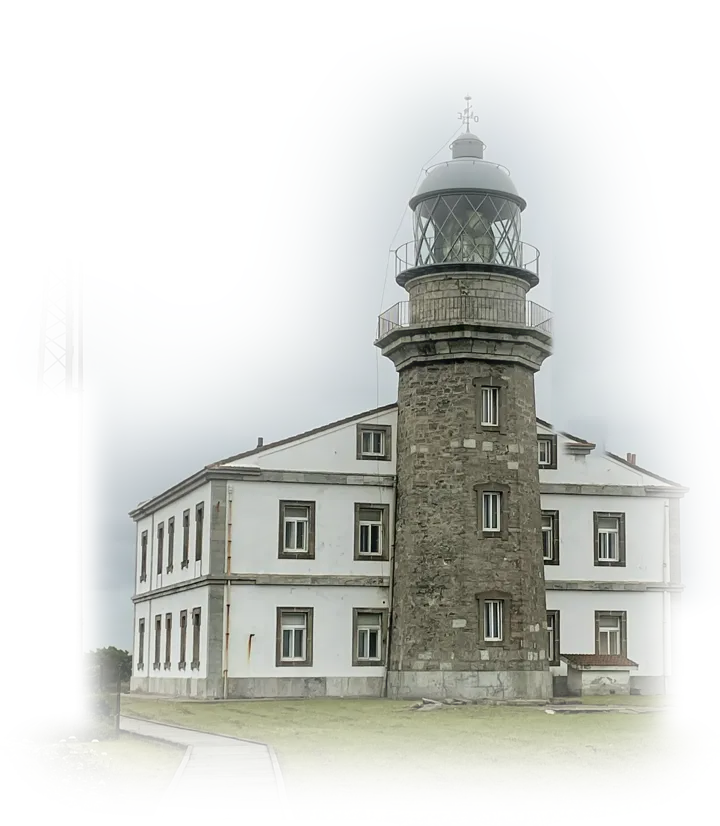
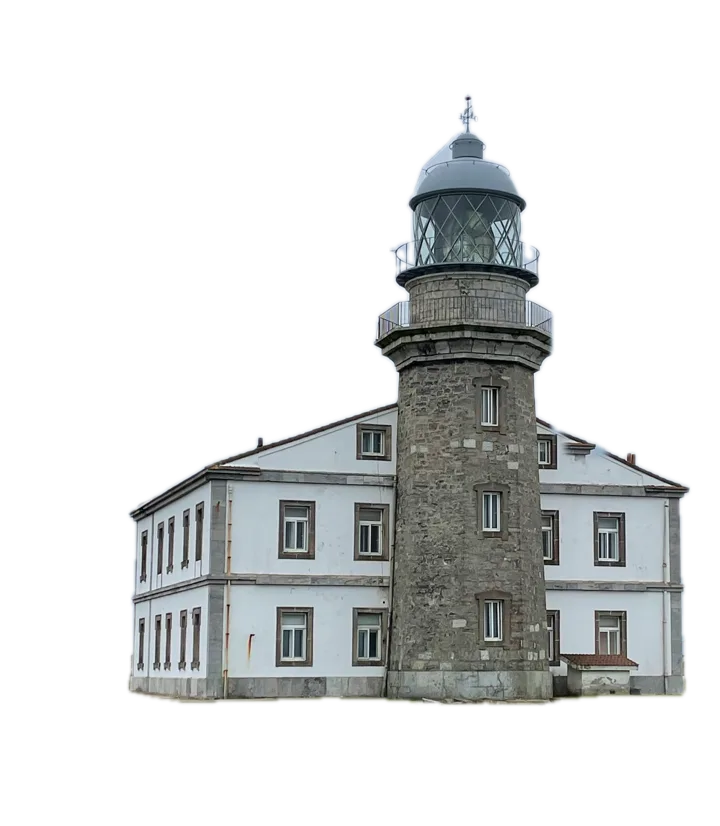
feat(cdn): the band goes dark, the cutout gets tight, the quotation becomes an epigraph
Four rounds of static prototypes, each measured for contrast pixel by pixel
(founder, 2026-10-01): the light band lost to a dark one, and "negro puro" to
a warm grey that drifts toward the photograph's own tone from the column's
right edge on. Two new tokens carry that: --color-ground-dark (#232724, the
grey the muted-dark ink was measured against) and --color-ground-haze
(#A1ABAA, what the cutout's edge pixels average to).

What the rounds found and fixed:

- The soft-edged cutout kept real sky inside its mask; on any dark ground it
  lit up as a glow around the tower, and no gradient could hide it. Both photo
  assets are regenerated from the tight silhouette (1 px edge, a faint fade at
  the base): 288 KB -> 142 KB, 106 KB -> 48 KB. Same photograph, same credit.
- The drawing sits past the column's right edge (right -5 %, bottom -8 %,
  width 48 %), so no line of copy touches it in either phase: title 7.2:1 and
  body 7.2:1 over the photo, 7.1 and 7.1 at rest, percentile 1.
- The copy keeps the column at full width and the register every hero shares;
  the partner card leaves the hero and returns to the instrument intro where it
  was (the house rule says partner logos never float in the hero), replaced by
  an epigraph: the sentence, then "— Cloudflare" linked to its source. The seed's
  linked span now says only the author; the mirrors and baselines follow.
- The logo cube, one, large, in the section's colour, leaves by the left margin
  as a seal (G3).
[…]

Changed region(s): [[0.0917, 0.1211, 0.9778, 0.9383]]

diff --git a/src/styles/hero-radar.css b/src/styles/hero-radar.css
@@ -1,16 +1,18 @@
 /* ═══ HERO — the radar scene of the edge-security vertical (#529) ═══
-   Light, not ink: the band is the vertical's own colour at a tint over the
-   page's white, so the photograph and the drawing sit on paper the way the
-   plates never could ("lo oscuro transmite tristeza", founder 2026-09-30).
+   A dark band that is not black (founder, 2026-10-01): the warm ground grey,
+   drifting toward the photograph's own tone from the column's right edge on,
+   so the cutout lands on a kindred colour instead of a halo. The copy keeps
+   the column and the register every hero shares; the drawing sits past the
+   column's right edge, so no line of text touches it in either phase
+   (measured: title 7.2:1, body 7.2:1 over the photo; 7.1 and 7.1 at rest).
    Three boxes share one geometry — the screen under, the art, the text
    overlay over — so a label positioned in percentages lands on its ring.
    Every colour is a token or a mix of tokens; the only orange is the one the
    CMS gives this page as --accentColor. */
 .s-hero--radar {
 	--radar-c: var(--accentColor, var(--color-edge));
-	/* small orange text needs more than the brand orange gives on this band:
-	   mixed toward ink it clears 4.5:1 */
-	--radar-c-text: color-mix(in srgb, var(--radar-c) 70%, var(--color-primary));
+	/* small orange text on the dark ground: mixed toward paper it clears 4.5:1 */
+	--radar-c-text: color-mix(in srgb, var(--radar-c) 80%, var(--color-secondary));
 	--radar-t: 5s;
 	position: relative;
 	isolation: isolate;
@@ -18,7 +20,9 @@
 	align-items: center;
 	min-height: 100svh;
 	padding: var(--open-pad-top) 0 var(--space-6);
-	background-color: color-mix(in srgb, var(--radar-c) 9%, var(--color-secondary));
+	color: var(--color-secondary);
+	background-color: var(--color-ground-dark);
+	background-image: linear-gradient(90deg, var(--color-ground-dark) 0%, var(--color-ground-dark) 34%, color-mix(in srgb, var(--color-ground-haze) 30%, var(--color-ground-dark)) 68%, color-mix(in srgb, var(--color-ground-haze) 55%, var(--color-ground-dark)) 100%);
 	overflow: clip;
 }
 
@@ -28,20 +32,13 @@
 	z-index: 0;
 }
 
-.radar__grid {
-	position: absolute;
-	inset: 0;
-	width: 100%;
-	height: 100%;
-	color: color-mix(in srgb, var(--color-primary) 8%, transparent);
-}
-
+/* the drawing's frame: past the column's right edge, bottom-anchored, so the
+   tower starts where the copy ends and the house sits on the band's floor */
 .radar__box {
 	position: absolute;
-	right: 6%;
-	top: 52%;
-	translate: 0 -50%;
-	width: 43.4%;
+	right: -5%;
+	bottom: -8%;
+	width: 48%;
 	aspect-ratio: 1760 / 2020;
 }
 
@@ -56,7 +53,7 @@
 }
 .radar__rings { stroke: var(--radar-c); stroke-width: 1.5; stroke-opacity: .5; }
 .radar__range-ring { stroke: var(--radar-c); stroke-width: 1.8; stroke-opacity: .8; }
-.radar__scale { stroke: var(--color-primary); stroke-width: 1.2; stroke-opacity: .55; }
+.radar__scale { stroke: var(--color-secondary); stroke-width: 1.2; stroke-opacity: .55; }
 
 /* the sweep: a disc of 3200 frame units centred on the tower base (777.5, 1063 of 1205.5 × 1384), turned on the compositor at 12 rpm */
 .radar__sweep {
@@ -82,7 +79,7 @@
 .radar__photo { opacity: 1; }
 .radar__plan { opacity: 0; }
 
-/* the text overlay: fixed sizes, positioned in percentages of the frame */
+/* the text overlay: fixed sizes, positioned in percentages of the frame, in paper */
 .radar__hud {
 	pointer-events: none;
 	opacity: 0;
@@ -94,7 +91,7 @@
 	font-size: 12px;
 	font-weight: 500;
 	letter-spacing: .08em;
-	color: var(--color-primary);
+	color: var(--color-secondary);
 }
 .radar__lab { translate: calc(-100% - 10px) -50%; }
 .radar__lab::after {
@@ -104,47 +101,47 @@
 	top: 50%;
 	width: 10px;
 	height: 1px;
-	background: var(--color-primary);
+	background: var(--color-secondary);
 	opacity: .6;
 }
 .radar__range {
 	font-size: 11px;
-	color: var(--color-text-muted);
+	color: var(--color-text-muted-dark);
 	right: 0;
 	top: 76.8%;
 	translate: 0 -120%;
 }
 .radar__you {
-	left: 34%;
-	top: 38.9%;
-	translate: -100% -50%;
+	left: 3%;
+	top: 68%;
+	translate: 0 -50%;
 	font-size: 12.5px;
 	font-weight: 500;
-	color: var(--color-primary);
-	padding-right: 22px;
+	color: var(--color-secondary);
+	padding-left: 22px;
 }
 .radar__you b { font-weight: 500; }
 .radar__you::after {
 	content: "";
 	position: absolute;
-	right: 0;
+	left: 0;
 	top: 50%;
 	width: 10px;
 	height: 10px;
 	translate: 0 -50%;
 	border-radius: 50%;
-	background: var(--color-primary);
+	background: var(--color-secondary);
 }
 .radar__you::before {
 	content: "";
 	position: absolute;
-	right: -9px;
+	left: -9px;
 	top: 50%;
 	width: 28px;
 	height: 28px;
 	translate: 0 -50%;
 	border-radius: 50%;
-	border: 1.5px solid var(--color-primary);
+	border: 1.5px solid var(--color-secondary);
 	animation: radar-pulse 2.5s ease-out infinite;
 }
 .radar__blip {
@@ -172,33 +169,59 @@
 }
 .radar__blip--l::after { left: auto; right: 0; }
 
-/* copy: the service page's own pieces, the partner card carrying the quotation */
+/* the seal: one logo cube, large, leaving by the left margin under the epigraph */
+.radar__seal {
+	position: absolute;
+	z-index: 1;
+	left: -200px;
+	top: 290px;
+	width: 760px;
+	height: auto;
+	color: var(--radar-c);
+	opacity: .16;
+	pointer-events: none;
+}
+
+/* copy: the service page's own pieces in paper, then the epigraph */
 .s-hero--radar .s-hero__inner { position: relative; z-index: 2; }
 .s-hero--radar .s-hero__copy { max-width: none; }
-/* the service hero paints its h1 white for the ink band; this band is paper */
-.s-hero.s-hero--radar h1 { max-width: 12ch; color: var(--color-primary); }
-.s-hero--radar .s-hero__body { max-width: 30ch; }
+.s-hero.s-hero--radar h1 { color: var(--color-secondary); }
+.s-hero--radar .s-hero__body { color: var(--color-hero-ink-soft); }
 .s-hero--radar .btn { margin-top: var(--space-4); }
-.s-partner--hero {
+.s-hero__epigraph {
 	margin: var(--space-4) 0 0;
-	max-width: none;
-	width: min(100%, 530px);
-	gap: 22px;
-	padding: 18px 22px;
-	background: color-mix(in srgb, var(--color-primary) 5%, transparent);
+	color: var(--color-hero-ink-soft);
 }
-.s-partner--hero .s-partner__logo { width: 120px; }
-.s-partner--hero .s-partner__copy { font-size: 15.5px; line-height: 1.45; font-style: italic; }
-.s-partner--hero .s-partner__copy p { margin: 0; }
-.s-partner--hero .s-partner__copy a { font-family: var(--font-family-mono); font-size: 11.5px; font-style: normal; color: var(--color-primary); display: block; margin-top: 6px; }
+.s-hero__epigraph blockquote { margin: 0; }
+.s-hero__epigraph p {
+	margin: 0;
+	font-size: 17px;
+	line-height: 1.5;
+	font-style: italic;
+}
+.s-hero__epigraph figcaption {
+	margin-top: 6px;
+	font-size: 16px;
+	color: var(--color-console-ink);
+}
+.s-hero__epigraph figcaption a {
+	color: var(--color-secondary);
+	text-decoration: underline;
+	text-decoration-style: dashed;
+	text-decoration-thickness: 1px;
+	text-underline-offset: 4px;
+	text-decoration-color: color-mix(in srgb, currentColor 60%, transparent);
+}
+.s-hero__epigraph figcaption a:hover,
+.s-hero__epigraph figcaption a:focus-visible { text-decoration-style: solid; }
 
-/* the scrim keeps the copy legible over the rings on the text side */
+/* the veil keeps the copy's side of the band at the ground's own grey */
 .s-hero--radar .s-hero__scrim {
 	position: absolute;
 	inset: 0;
 	z-index: 1;
 	pointer-events: none;
-	background-image: linear-gradient(90deg, color-mix(in srgb, var(--color-secondary) 55%, transparent) 0%, color-mix(in srgb, var(--color-secondary) 45%, transparent) 34%, color-mix(in srgb, var(--color-secondary) 20%, transparent) 50%, transparent 64%);
+	background-image: linear-gradient(90deg, var(--color-ground-dark) 0%, var(--color-ground-dark) 38%, color-mix(in srgb, var(--color-ground-dark) 70%, transparent) 56%, transparent 72%);
 }
 
 /* the control: WCAG 2.2.2 — one checkbox stops everything that moves */
@@ -209,15 +232,15 @@
 	place-items: center;
 	width: 40px;
 	height: 40px;
-	border: 1px solid var(--color-primary);
-	color: var(--color-primary);
-	background: color-mix(in srgb, var(--color-secondary) 80%, transparent);
+	border: 1px solid var(--color-secondary);
+	color: var(--color-secondary);
+	background: color-mix(in srgb, var(--color-ground-dark) 80%, transparent);
 	cursor: pointer;
 	font-size: 14px;
 }
 .radar__pause-btn::before { content: "❚❚"; }
 .radar__pause:checked + .radar__pause-btn::before { content: "▶"; }
-.radar__pause:focus-visible + .radar__pause-btn { outline: 2px solid var(--color-primary); outline-offset: 2px; }
+.radar__pause:focus-visible + .radar__pause-btn { outline: 2px solid var(--color-secondary); outline-offset: 2px; }
 
 /* the sequence: photo 1.2 s · crossfade 2 s · strokes alone 1 s · radar 0.8 s · then the events */
 .s-hero--radar.is-playing .radar__photo { animation: radar-photo var(--radar-t) ease-in-out forwards; }
@@ -257,24 +280,23 @@
 	.s-hero--radar .radar__sweep { transform: rotate(300deg); }
 }
 
-/* phones: one column — title, excerpt, CTA, the art at full width inside the first viewport, the card after it */
+/* phones: one column — title, excerpt, CTA, the art at full width inside the first viewport, the epigraph after it;
+   the ground drifts downward instead, toward the art */
 @media (max-width: 700px) {
-	.s-hero--radar { display: flex; flex-direction: column; align-items: stretch; min-height: 0; padding-bottom: var(--space-4); }
+	.s-hero--radar { display: flex; flex-direction: column; align-items: stretch; min-height: 0; padding-bottom: var(--space-4); background-image: linear-gradient(180deg, var(--color-ground-dark) 0%, var(--color-ground-dark) 42%, color-mix(in srgb, var(--color-ground-haze) 45%, var(--color-ground-dark)) 100%); }
 	.s-hero--radar .s-hero__inner,
 	.s-hero--radar .s-hero__copy { display: contents; }
 	.s-hero--radar h1 { order: 1; max-width: none; margin-inline: 16px; }
 	.s-hero--radar .s-hero__body { order: 2; max-width: none; margin-inline: 16px; }
 	.s-hero--radar .btn { order: 3; align-self: flex-start; margin: var(--space-3, 16px) 16px 0; }
 	.s-hero--radar .s-hero__stage { order: 4; position: relative; height: calc(100vw * 2020 / 1760 * .78); margin-top: var(--space-2, 8px); overflow: hidden; }
-	.s-partner--hero { order: 5; margin: var(--space-4) 16px 0; width: auto; grid-template-columns: 1fr; gap: 14px; padding: 16px 18px; }
-	.s-partner--hero .s-partner__logo { width: 110px; }
+	.s-hero__epigraph { order: 5; margin: var(--space-4) 16px 0; }
 	.radar__ctl { order: 6; position: static; margin: var(--space-3, 16px) 16px 0; }
-	.radar__box { right: auto; left: 11vw; top: 0; width: 78vw; translate: none; aspect-ratio: auto; height: 100%; }
+	.radar__box { right: auto; left: 11vw; top: 0; bottom: auto; width: 78vw; aspect-ratio: auto; height: 100%; }
 	.radar__art img { object-fit: contain; object-position: 50% 0; }
 	.s-hero--radar .s-hero__scrim { display: none; }
-	.radar__you { left: 2%; top: 97%; translate: 0 -50%; padding: 0 0 0 22px; }
-	.radar__you::after { left: 0; right: auto; }
-	.radar__you::before { left: -9px; right: auto; }
+	.radar__seal { left: -140px; top: auto; bottom: -120px; width: 420px; }
+	.radar__you { left: 2%; top: 97%; }
 	.radar__origin { left: 78%; }
 	.radar__lab, .radar__origin { font-size: 10.5px; }
 	.radar__blip, .radar__you { font-size: 11px; }

diff --git a/src/styles/theme.css b/src/styles/theme.css
@@ -201,6 +201,11 @@
 	--color-hero-ink-soft: rgba(255, 255, 255, 0.82);
 	--color-hero-rule: rgba(255, 255, 255, 0.35);  /* the locale chip's box */
 	--color-hero-dot: rgba(255, 255, 255, 0.22);   /* a slide not showing */
+	/* the radar hero's band (#529, founder 2026-10-01: "un negro menos negro"): the
+	   warm dark grey the muted-dark ink was measured against, and the tone the
+	   lighthouse cutout's edge pixels average to, which the band drifts toward */
+	--color-ground-dark: #232724;
+	--color-ground-haze: #A1ABAA;
 	/* The card the rotating half of the band lives in (founder's direction C,
 	   2026-08-27). A lift, not a fill: at 7% the plate still shows through, so
 	   the panel reads as a pane laid on the picture rather than a box that

diff --git a/seed/content/services/es/cdn-waf-seguridad-edge-cloudflare.md b/seed/content/services/es/cdn-waf-seguridad-edge-cloudflare.md
@@ -3,7 +3,7 @@ cta_label: "Audita tu edge"
 excerpt: "*Partners* oficiales de [`Cloudflare`](https://www.cloudflare.com/es-es/) desde 2019. Auditoría, migración y operación de `CDN`, `WAF` y seguridad perimetral, sobre todo en [comercio electrónico](/comercio-electronico)."
 ---
 
-> «Imaginemos que la red de una organización es un castillo, y el perímetro de red un foso. Una vez que se baja el puente levadizo y alguien lo cruza, puede moverse con libertad por el interior del castillo.» [Cloudflare, ¿Qué es el modelo de seguridad de red perimetral?](https://www.cloudflare.com/es-es/learning/access-management/castle-and-moat-network-security/)
+> «Imaginemos que la red de una organización es un castillo, y el perímetro de red un foso. Una vez que se baja el puente levadizo y alguien lo cruza, puede moverse con libertad por el interior del castillo.» [Cloudflare](https://www.cloudflare.com/es-es/learning/access-management/castle-and-moat-network-security/)
 
 Trabajamos con la plataforma de [`Cloudflare`](https://www.cloudflare.com/es-es/) desde 2017, dos años antes de hacernos socios oficiales. Auditamos, migramos y optimizamos cuentas [Enterprise](https://www.cloudflare.com/es-es/plans/enterprise/) y [Business](https://www.cloudflare.com/es-es/plans/business/), sobre todo para *retail* y comercio electrónico.
 

diff --git a/seed/content/services/en/cdn-waf-edge-security-cloudflare.md b/seed/content/services/en/cdn-waf-edge-security-cloudflare.md
@@ -3,7 +3,7 @@ cta_label: "Audit your edge"
 excerpt: "Official [`Cloudflare`](https://www.cloudflare.com/) partners since 2019. We audit, migrate and run `CDN`, `WAF` and edge security, mostly for [e-commerce](/en/e-commerce)."
 ---
 
-> «Imagine an organization’s network as a castle and the network perimeter as a moat. Once the drawbridge is lowered and someone crosses it, they have free rein inside the castle grounds.» [Cloudflare, What is the castle-and-moat network security model?](https://www.cloudflare.com/learning/access-management/castle-and-moat-network-security/)
+> «Imagine an organization’s network as a castle and the network perimeter as a moat. Once the drawbridge is lowered and someone crosses it, they have free rein inside the castle grounds.» [Cloudflare](https://www.cloudflare.com/learning/access-management/castle-and-moat-network-security/)
 
 We've worked with the [`Cloudflare`](https://www.cloudflare.com/) platform since 2017, two years before becoming an official partner. We audit, migrate and tune [Enterprise](https://www.cloudflare.com/plans/enterprise/) and [Business](https://www.cloudflare.com/plans/business/) accounts, mostly for retail and e-commerce.
 

diff --git a/docs/design/hero-rotativo/README.md b/docs/design/hero-rotativo/README.md
@@ -80,7 +80,7 @@ column, `cdn-faro-720.webp` and `cdn-faro-plan-660.webp`). The photograph is not
 
 | Asset | Photograph | Credit | Licence |
 | --- | --- | --- | --- |
-| `cdn-faro.webp` | Faro de Cabo Peñas, Gozón, Asturias (cropped, antenna mast painted out, soft-edged) | [Einaz80, Wikimedia Commons, "Cape Penas Lighthouse.jpg"](https://commons.wikimedia.org/wiki/File:Cape_Penas_Lighthouse.jpg) | CC BY-SA 4.0 |
+| `cdn-faro.webp` | Faro de Cabo Peñas, Gozón, Asturias (cropped, antenna mast painted out, cut out to the building for the dark band) | [Einaz80, Wikimedia Commons, "Cape Penas Lighthouse.jpg"](https://commons.wikimedia.org/wiki/File:Cape_Penas_Lighthouse.jpg) | CC BY-SA 4.0 |
 | `cdn-faro-plan.webp` | A line drawing generated from the photograph's cutout (Workers AI, FLUX.2 [dev]; the pipeline is in the design thread of #529) | derivative of the above | CC BY-SA 4.0 |
 
 CC BY-SA asks for attribution where the work is used and share-alike on derivatives. The
